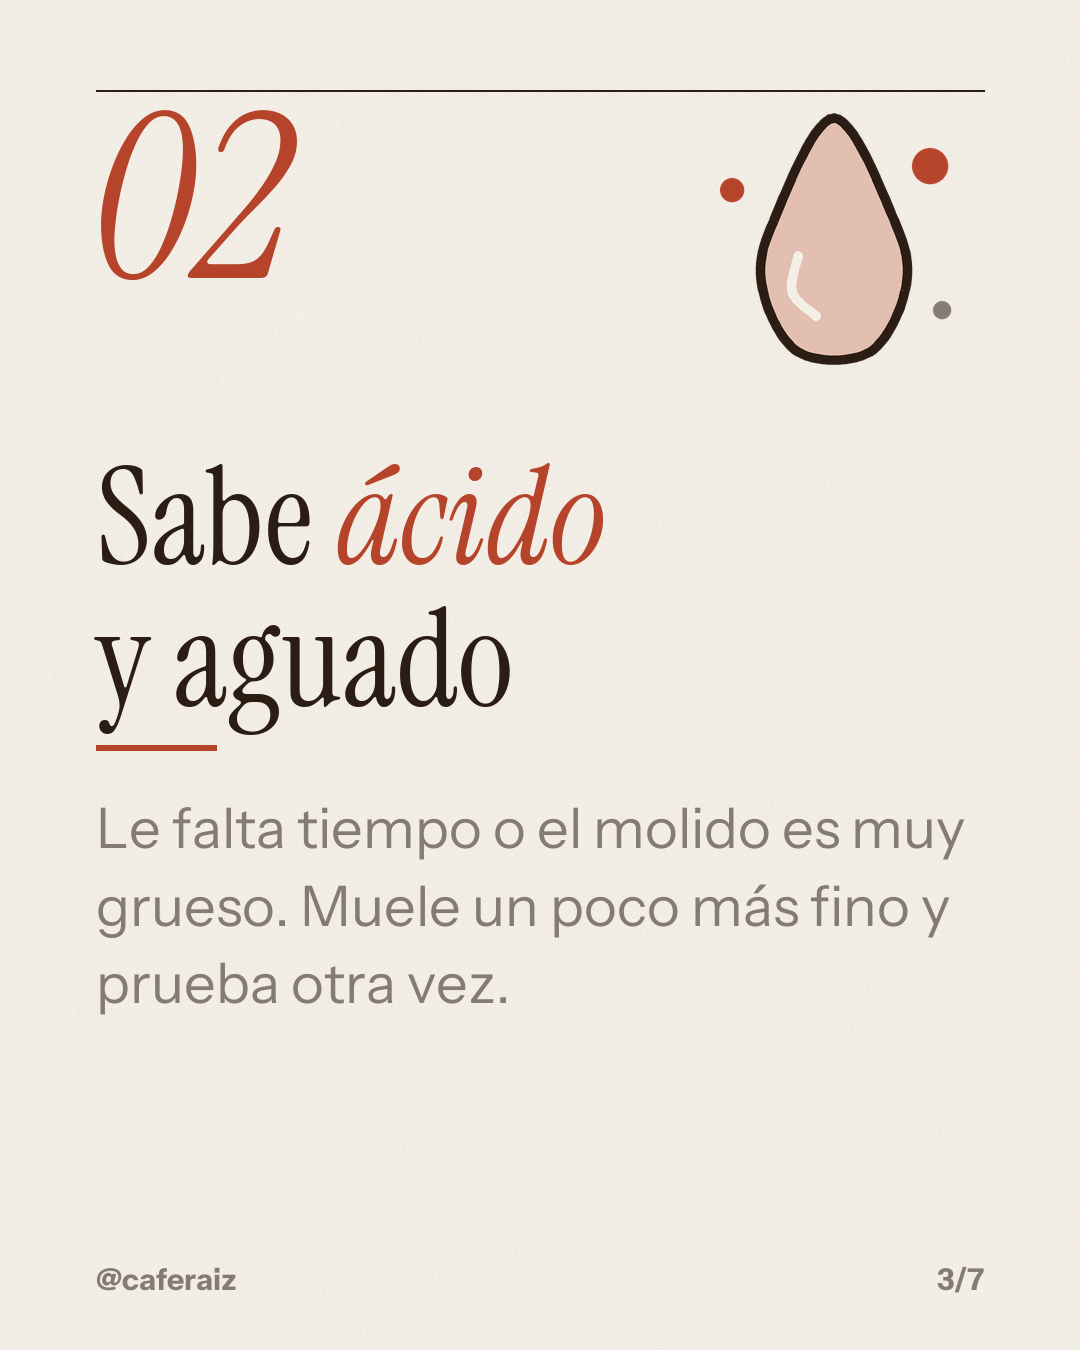
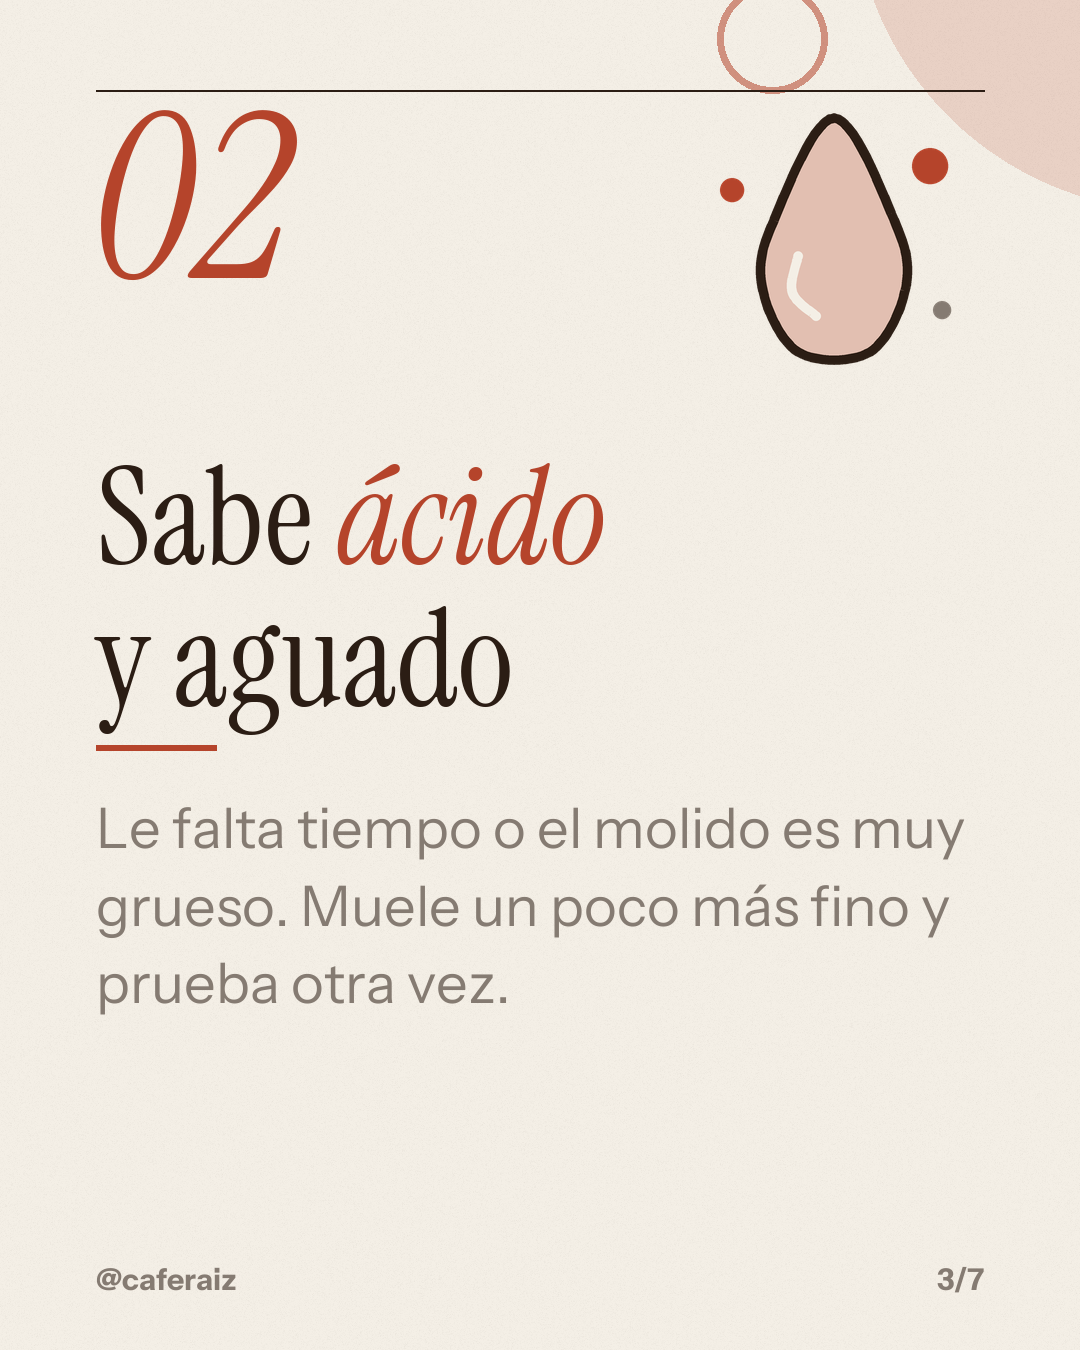
Ruta Canva como opción principal (opcional), cuadro de cómo se adapta, más vida en el diseño propio

diff --git a/scripts/carrusel.py b/scripts/carrusel.py
@@ -175,6 +175,27 @@ class Lienzo:
     # ----- fondo de cada plantilla -----
     def decorar_fondo(self, invertido=False):
         nombre = self.g.get("plantilla", "editorial")
+        tipo = getattr(self, "tipo", "")
+        vida = self.g.get("vida", True) and not invertido and nombre != "bloque"
+        # «vida»: que no se vea plano ni genérico. Las láminas pares de contenido van sobre un tinte del color
+        # de la marca y cada lámina lleva una forma grande de su color, que cambia de esquina para dar ritmo.
+        if vida and self.n % 2 == 0 and tipo in ("punto", "lista", "pasos", "dato", "cita", "captura", "post"):
+            self.fondo = mezcla(self.acento, self.fondo, 0.86)
+            self.d.rectangle([0, 0, self.W, self.H], fill=self.fondo)
+            self.suave = mezcla(self.tinta, self.fondo, 0.42)
+        if vida and tipo not in ("foto", "cierre"):
+            capa = Image.new("RGBA", (self.W, self.H), (0, 0, 0, 0))
+            dc = ImageDraw.Draw(capa)
+            r = int(self.W * 0.30)
+            # solo en esquinas (nunca detrás del texto): arriba a la derecha o abajo a la derecha, alternando
+            arriba = self.n % 2 == 1
+            cx, cy = (self.W + r * 0.30, -r * 0.35) if arriba else (self.W + r * 0.35, self.H + r * 0.30)
+            dc.ellipse([cx - r, cy - r, cx + r, cy + r], fill=self.acento[:3] + (45 if arriba else 60,))
+            r2 = int(r * 0.17)
+            rx, ry = (self.W - r * 0.95, r * 0.12) if arriba else (self.W - r * 1.05, self.H - r * 0.30)
+            if tipo != "portada":          # en la portada ese lugar es del logo
+                dc.ellipse([rx - r2, ry - r2, rx + r2, ry + r2], outline=self.acento[:3] + (140,), width=7)
+            self.img.alpha_composite(capa)
         if invertido:
             self.d.rectangle([0, 0, self.W, self.H], fill=self.acento if nombre != "bloque" else self.acento)
         if nombre == "cuaderno":
@@ -281,6 +302,10 @@ class Lienzo:
         im = im.crop((l, t, l + w, t + h))
         mascara = Image.new("L", (w, h), 0)
         ImageDraw.Draw(mascara).rounded_rectangle([0, 0, w, h], radius=radio, fill=255)
+        if self.g.get("vida", True):          # sombra suave: la foto «flota», no se ve pegada
+            sombra = Image.new("RGBA", self.img.size, (0, 0, 0, 0))
+            ImageDraw.Draw(sombra).rounded_rectangle([x0 + 6, y0 + 16, x1 + 6, y1 + 16], radius=radio, fill=(0, 0, 0, 60))
+            self.img.alpha_composite(sombra.filter(ImageFilter.GaussianBlur(16)))
         self.img.paste(im, (x0, y0), mascara)
         return True
 
@@ -445,6 +470,22 @@ def s_cierre(c, s):
     c.img.paste(Image.new("RGBA", c.img.size, c.acento if plant != "bloque" else c.acento), (0, 0))
     c.d = ImageDraw.Draw(c.img)
     claro = c.fondo if plant != "bloque" else (17, 17, 17, 255)
+    if c.g.get("vida", True):
+        capa = Image.new("RGBA", c.img.size, (0, 0, 0, 0))
+        dc = ImageDraw.Draw(capa)
+        r = int(c.W * 0.42)
+        dc.ellipse([c.W - r * 0.9, c.H - r * 0.85, c.W + r * 1.1, c.H + r * 1.15], fill=(255, 255, 255, 34))
+        dc.ellipse([-r * 0.5, -r * 0.6, r * 0.55, r * 0.45], outline=(255, 255, 255, 60), width=10)
+        c.img.alpha_composite(capa)
+        logo = c.g.get("marca", {}).get("logo")
+        if logo and os.path.exists(logo):          # su logo grande y transparente, abajo a la derecha
+            lg = Image.open(logo).convert("RGBA")
+            lg.thumbnail((380, 380), Image.LANCZOS)
+            # su silueta en blanco transparente (con sus colores se perdería sobre el color de su marca)
+            sil = Image.new("RGBA", lg.size, (255, 255, 255, 0))
+            sil.putalpha(lg.getchannel("A").point(lambda v: int(v * 0.20)))
+            c.img.alpha_composite(sil, (int(c.x1 - lg.width + 20), int(c.y1 - lg.height - 40)))
+        c.d = ImageDraw.Draw(c.img)
     if contraste(claro, c.acento) < 3 and contraste(c.tinta, c.acento) > contraste(claro, c.acento):
         claro = c.tinta                                         # acento claro (p. ej. verde lima): texto oscuro
     if s.get("dibujo"):
@@ -700,18 +741,18 @@ def render(guion, salida):
             if re.match(r"\d\d\.png$", viejo):
                 os.remove(os.path.join(carpeta, viejo))
         for i, s in enumerate(slides, 1):
-            c = Lienzo(g, i, len(slides))
+            c = Lienzo(g, i, len(slides)); c.tipo = s.get("tipo", "punto")
             TIPOS[s.get("tipo", "punto")](c, s)
             if fmt == "tiktok":
                 # TikTok es más alto: si la lámina deja mucho vacío abajo, se baja todo para que quede
                 # centrado en la pantalla (sin tocar la zona de los botones ni la de la descripción)
-                base = Lienzo(g, i, len(slides)); base.decorar_fondo()
+                base = Lienzo(g, i, len(slides)); base.tipo = c.tipo; base.decorar_fondo()
                 caja = ImageChops.difference(c.img.convert("RGB"), base.img.convert("RGB")).crop(
                     (0, 0, c.W, int(c.y1) - 4)).getbbox()
                 if caja:
                     libre = c.y1 - 30 - caja[3]
                     if libre > 120:
-                        c = Lienzo(g, i, len(slides))
+                        c = Lienzo(g, i, len(slides)); c.tipo = s.get("tipo", "punto")
                         c.y0 += libre * 0.5
                         TIPOS[s.get("tipo", "punto")](c, s)
             ruta = os.path.join(carpeta, f"{i:02d}.png")

diff --git a/SKILL.md b/SKILL.md
@@ -30,6 +30,20 @@ Trabajas como diseñador y redactor de redes. **Una sola ronda de preguntas, pro
 | `scripts/paso0.py` · `scripts/version.py` | Revisa lo que falta · aviso de versión nueva |
 | `scripts/iconos.py`, `ejemplos/`, `estilos.jpg`, `guia/` | Cómo dibujar ilustraciones, guiones de ejemplo, los 4 estilos, la mini guía |
 
+## Se adapta a lo que tenga la persona (y en todos los casos, calidad alta)
+
+Nunca exijas nada: usa lo mejor que haya y completa lo que falte. Canva es **opcional** (mucha gente no lo tiene o no puede conectarlo): sin Canva, el resultado también tiene que salir de nivel.
+
+| Lo que tiene | Qué haces |
+|---|---|
+| Su página o su Instagram | Saca su logo, colores y letra (Paso 2) |
+| Sus fotos, logo, notas (revueltos, como sea) | Los junta y ordena; sus fotos van primero (sección «Si trae su propio contenido») |
+| Canva conectado | Ofrece diseñarlo ahí (recomendado): diseño profesional y editable («Ruta Canva») |
+| Sin Canva | Lo diseña Claude con su marca y «vida» (tintes, formas, fotos con sombra); ofrece conectar Canva una sola vez |
+| Sin fotos propias | Fotos libres reales del tema y logos reales de las apps (Paso 4) |
+| Un tema donde no aplican fotos (ideas, procesos, conceptos) | Ilustraciones dibujadas a la medida |
+| Nada (ni marca, ni fotos, ni Canva) | Igual sale completo y bonito: estilo recomendado, fotos o dibujos, y te lo enseña publicado |
+
 ## Primera vez · la mini guía (se ofrece una sola vez)
 
 Al empezar, revisa si existe `~/.dakexplica/dak-carrusel-pro.json`:
@@ -59,7 +73,9 @@ Si no dio el tema, pregúntalo primero en una frase ("¿De qué es tu carrusel? 
 1. **¿Dónde lo publicas?** Instagram (recomendado) · TikTok modo foto · LinkedIn (PDF) · Todo lo anterior
 2. **¿Tu marca?** De mi página o mi Instagram (recomendado: "me pasas el link o una captura; no necesito tu contraseña ni entrar a tu cuenta") · Te paso mis cosas ("tu logo, tus fotos, tus colores o tus notas: en una carpeta, arrastradas al chat o como quieras") · Invéntamela · Sin marca. *Si hay marca guardada (`~/.carrusel-pro/marca.json`), esta pregunta es «¿Uso tu marca guardada, [nombre]?»*
 3. **¿Qué imágenes?** Fotos reales + dibujos (recomendado) · Solo dibujos · Mis fotos · Solo texto  *(si ya mandó sus fotos, no lo preguntes: van las suyas)*
-4. **¿Estilo?** Decide tú (recomendado) · Editorial · Minimal · Bloque · Cuaderno (enseña `estilos.jpg` si duda)
+4. **¿Dónde lo diseño?** (revisa antes si tienes herramientas de Canva en esta sesión)
+   - **Con Canva conectado:** **En Canva (recomendado)** — "el diseño más bonito, con fotos e ilustraciones, y te queda editable en tu Canva" · **Aquí, con Claude** — "lo dibujo yo con tu estilo; sale al momento y no necesita nada" · **Los dos**.
+   - **Sin Canva:** «¿Estilo?» Decide tú (recomendado) · Editorial · Minimal · Bloque · Cuaderno (enseña `estilos.jpg` si duda), y **una sola vez**, al entregar, ofrece conectarlo (ver «Ruta Canva»).
 
 El objetivo (vender, enseñar, marca personal) y el tono los deduces del tema y de su página; no los preguntes.
 
@@ -139,10 +155,20 @@ Muéstralo como lista (lámina por lámina), ajusta lo que pida y sigue. Si dijo
 5. **Guarda su marca:** en Claude Code en `~/.carrusel-pro/marca.json` (la próxima vez solo pregunta "¿uso tu marca guardada?"). En la app, el bloque JSON para pegar en las instrucciones de un Proyecto.
 6. Ofrece ajustes concretos en una línea ("¿Cambio el gancho, el estilo o alguna imagen?") y, **una sola vez**, lo que tenga conectado (abajo).
 
+## Ruta Canva (la versión más bonita; nunca obligatoria)
+
+Con Canva el carrusel sale **con diseño de nivel agencia**: fotos e ilustraciones a la medida, composiciones variadas y editable en su cuenta. Claude pone lo que Canva no sabe hacer solo: **el texto de cada lámina, su marca y el orden**; Canva pone el diseño.
+- **Si no lo tiene conectado**, ofrécelo una vez, con lo que gana y sin presionar: "Si conectas Canva (gratis, en claude.ai: **Configuración → Conectores → Canva**; en Claude Code, en la lista de conectores), te lo dejo diseñado ahí, con fotos e ilustraciones y editable. Sin eso funciona igual." Botones **Quiero conectarlo** · **Así está bien**. Con lo primero, los pasos con los nombres reales de los menús y espera a que diga que ya.
+- **Su marca en Canva:** si tiene un kit de marca (herramienta de listar kits de marca), pregunta «¿Uso tu kit de marca de Canva?». Si no, pasa sus colores hex, su letra y su @ en el brief.
+- **Cómo pedirlo:** usa la herramienta de crear diseño de Canva (`create-design`; si no existe, `generate-design` → `create-design-from-candidate`) con un brief que diga: «Carrusel de Instagram de N láminas (vertical)», el nombre y @ de la marca, sus colores hex, el estilo y la letra, y **el texto exacto de cada lámina, numerado** (el que aprobó en el Paso 3). Formato «Instagram Post (Portrait)» (TikTok: «Your Story»). Espera el trabajo con la herramienta de consultar el trabajo, respetando los segundos que pide.
+- **Revísalo y enséñalo como publicado:** exporta las láminas en PNG (`export-design`, ancho 1080), guárdalas como `01.png`, `02.png`… en `<trabajo>/canva/` (bajar los PNG de su propio diseño está bien) y corre `vista.py <trabajo>/canva --marca <trabajo>/marca/marca.json`. Compara con el guion (que esté todo el texto, en orden y sin faltas); si algo falta o cambió, corrígelo con las herramientas de editar de Canva o dilo. Entrega **la vista + el link para editar en Canva**.
+- **Fotos de Canva = generadas por IA:** dilo siempre en una línea ("las fotos de pan las creó la IA de Canva; si quieres las tuyas, súbelas a tu Canva y las pongo"). Para un negocio real, sus fotos van primero: si están en su Canva, pásalas como referencias; si solo están en la compu, dile que las suba a Canva (**Subidos → Subir archivos**) o usa la ruta de Claude para esas láminas. Nunca presentes fotos de IA como si fueran de su local o sus productos.
+- Si Canva falla o tarda demasiado, dilo claro y entrega la versión de Claude, que ya tienes.
+
 ## Conectores (opcionales, nunca obligatorios)
 
 Antes de ofrecer uno, revisa qué herramientas tienes de verdad en esta sesión y ofrece **solo las que existen**, con lo que gana la persona. Si no lo tiene, una línea de cómo conectarlo (en claude.ai: **Configuración → Conectores**), gratis, y sigues sin él.
-- **Canva:** con su conector, pasa **el texto exacto aprobado de cada lámina**, los colores hex, la letra y el tamaño (1080×1350 o 1080×1920) a la herramienta de generar o crear diseño, revisa la vista previa contra el guion y entrega el link de edición. Canva lo arma con sus propios diseños (no es pixel por pixel igual a los PNG): dilo. Si quiere exactamente los PNG: canva.com → **Subir** → arrastra las láminas.
+- **Canva:** ver «Ruta Canva» arriba. Si además quiere los PNG de Claude en su Canva: canva.com → **Subidos** → arrastra las láminas.
 - **Adobe Express:** igual, con sus herramientas (crear desde HTML o plantilla); entrega el link de edición. Si falla, dilo claro y entrega los PNG.
 - **Google Drive:** en Claude Code, si el Paso 0 encontró la carpeta de Drive, ofrece copiar ahí `Carrusel Pro/<tema>/` (láminas + descripción) para abrirlo en el celular y subirlo desde ahí. En la app, si el conector de Drive deja crear archivos, súbelos. Pide permiso antes de guardar.
 - **Instagram y TikTok:** la skill no publica por ti (eso pide entrar a tu cuenta). Las láminas quedan listas en orden: en el celular, **+ → Publicación → selecciona varias** (Instagram) o **+ → Fotos** (TikTok), y pegas la descripción.
@@ -170,7 +196,8 @@ Si pide varios: 5 temas con ángulos distintos (un error común, un paso a paso,
 | No quiere instalar Pillow | Explica que sin eso no se dibuja y qué hacer; no sigue a medias |
 | App de Claude (sin internet en el código) | Lee su página con la herramienta web, pide logos como archivo, o dibujos |
 | Sin internet | Todo con dibujos y sus fotos; el aviso de versión no dice nada |
-| No tiene Canva, Express ni Drive | Funciona igual; una línea de cómo conectarlos, sin insistir |
+| No tiene Canva, Express ni Drive | Funciona igual; ofrece una vez conectar Canva (lo que gana y cómo), sin insistir |
+| Tiene Canva | Le ofrece diseñarlo ahí (recomendado), lo enseña dentro del iPhone y le da el link para editar; avisa que las fotos de Canva son de IA |
 | Quiere publicar directo | Le explica en 2 pasos cómo subirlo desde el celular |
 
 ## Reglas de oro

diff --git a/guia/leccion-3.md b/guia/leccion-3.md
@@ -21,12 +21,13 @@
 - **La descripción** completa, lista para copiar (con una línea de por qué ayuda a su objetivo: "el gancho de arriba es lo que hace que lo abran").
 - **Cómo subirlo, en tu celular:** Instagram **+ → Publicación → selecciona varias** · TikTok **+ → Fotos** · LinkedIn **Empezar una publicación → + → Añadir un documento**.
 - "Y tu marca ya quedó guardada: la próxima vez no te pregunto tus colores."
-- **Cierra con UNA pregunta**, según lo que tenga (revísalo antes; solo lo que exista):
-  - Drive en la compu o su conector: "¿Te lo guardo en tu Google Drive para abrirlo directo en el celular? 1 · Sí · 2 · No, así está bien"
-  - Si no, conector de Canva o Adobe Express: "¿Te lo dejo también en Canva para editarlo ahí? 1 · Sí · 2 · No"
-  - Si no tiene nada: "Escríbeme «listo» para terminar." (y en una línea: "si algún día quieres Canva o Drive, se conectan gratis en Configuración → Conectores")
+- **Cierra con UNA pregunta: Canva** (revisa antes si tiene sus herramientas en esta sesión). Es lo que más sube el nivel:
+  - **Con Canva conectado:** "Lo último, y lo que más se nota: ¿te lo hago también en **Canva**? Queda con fotos e ilustraciones de diseño profesional, y editable en tu cuenta. 1 · Sí, en Canva · 2 · No, así está bien"
+  - **Sin Canva:** "Lo último, y lo que más se nota: si conectas **Canva** (gratis), te lo dejo diseñado ahí, con fotos e ilustraciones y editable. Se conecta en **Configuración → Conectores → Canva**. 1 · Ya lo conecté, hazlo · 2 · Así está bien"
 
-**ALTO.** Con «Sí», sigue "Conectores" del SKILL.md (pide nada más: ya dijo que sí) y di en una línea qué hiciste y dónde quedó.
+**ALTO.**
+- **Sí / ya lo conecté:** avisa "Lo armo en tu Canva; tarda como un minuto" y sigue la «Ruta Canva» del SKILL.md con su marca y sus textos. Luego junta las dos vistas: `comparar.py <trabajo>/todas/instagram/vista-instagram.png <trabajo>/canva/vista-instagram.png --salida <trabajo>/claude-vs-canva.jpg --etiquetas "Con Claude" "Con Canva"`. **MENSAJE (cierra el turno):** la imagen, el link para editar en Canva, una línea honesta ("las fotos de Canva las crea su IA; si quieres las tuyas, súbelas a tu Canva y las cambio") y "Escríbeme «listo» para terminar." **ALTO.**
+- **No / así está bien:** si tiene Drive (en la compu o conector), una sola oferta más: "¿Te lo guardo en tu Google Drive para abrirlo en el celular? 1 · Sí · 2 · No". Si no, sigue a la despedida.
 
 ## Mensaje 2 · Despedida (corta, no es un manual)
 

diff --git a/README.md b/README.md
@@ -8,7 +8,8 @@ Le dices a Claude **"hazme un carrusel sobre…"** y te entrega un carrusel **co
 - **Tu página dentro de un iPhone**, paso a paso, comparaciones, listas, datos con fuente y 4 estilos (Editorial, Minimal, Bloque y Cuaderno).
 - **Así se ve publicado:** tu carrusel dentro de un iPhone, en Instagram y en TikTok, antes de subirlo.
 - **Instagram (4:5), TikTok (modo foto) y LinkedIn (PDF)** a la vez, cada uno acomodado a su medida.
-- Una sola ronda de preguntas y a trabajar. Si tienes **Canva, Adobe Express o Google Drive** conectados, te lo deja ahí también.
+- **Con Canva, si lo tienes (opcional):** te pregunta si lo diseña en tu Canva, con diseño profesional y editable. Si no lo tienes, lo hace igual aquí mismo.
+- **Se adapta a lo que tengas:** con tus fotos, con Canva o desde cero (fotos reales o dibujos a la medida). Una sola ronda de preguntas y a trabajar.
 
 Incluye una **mini guía interactiva** de unos 5 minutos (3 pasos): tu primer carrusel, con tu marca, y listo para subir.
 

diff --git a/CHANGELOG.md b/CHANGELOG.md
@@ -8,7 +8,8 @@
 - **Así se ve publicado:** te enseña tu carrusel dentro de un iPhone, en Instagram y en TikTok, antes de subirlo.
 - **LinkedIn:** también te lo deja en PDF, que es como LinkedIn muestra los carruseles.
 - **Más rápida:** una sola ronda de preguntas y a trabajar.
-- Se conecta con Canva, Adobe Express y Google Drive si los tienes (nunca obligatorio).
+- **Canva (opcional):** si lo tienes conectado, te pregunta si lo diseña ahí (diseño profesional y editable en tu cuenta) y te lo enseña dentro del iPhone; si no, lo hace igual y te ofrece conectarlo. También Adobe Express y Google Drive.
+- **Más vida sin Canva:** fondos que alternan con el color de tu marca, formas de color, fotos con sombra y tu logo en la portada y el cierre.
 - Revisa sola lo que te falta y te pide permiso antes de instalar nada. Aviso silencioso de versiones nuevas.
 - Mini guía de 3 pasos (~5 min) al día con todo esto.
 
